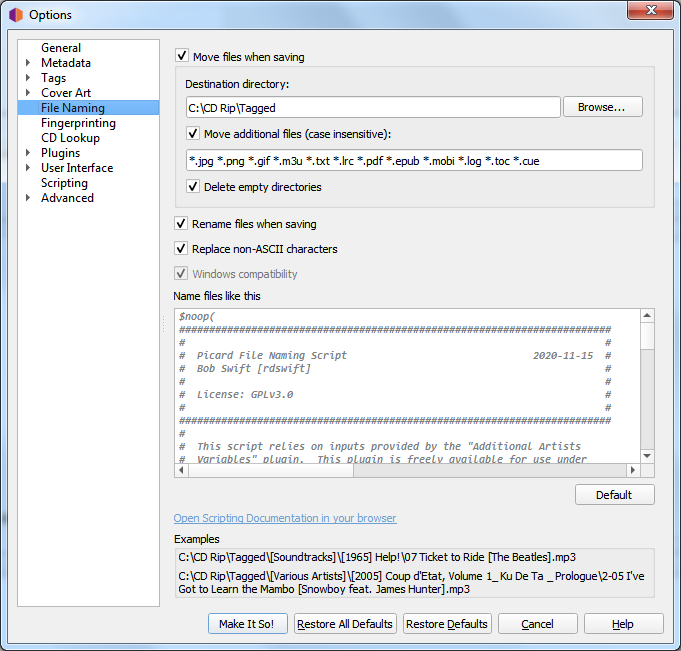
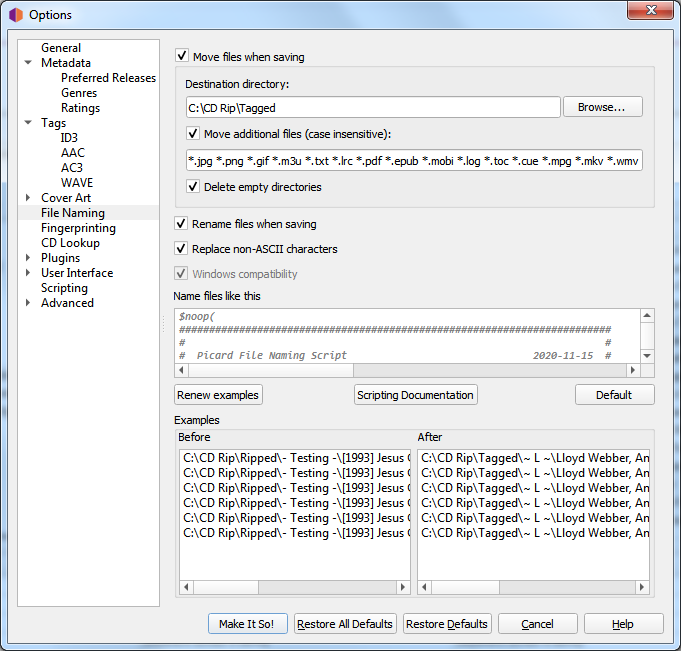
Update file renaming options page to show new examples section

diff --git a/config/options_filerenaming.rst b/config/options_filerenaming.rst
@@ -82,6 +82,10 @@ These options determine how Picard handles files when they are saved with update
    and there is a thread specific to `file naming and script snippets
    <https://community.metabrainz.org/t/repository-for-neat-file-name-string-patterns-and-tagger-script-snippets/2786/>`_.
 
+   Below the file naming script edit box is a section showing examples of the output of the script in two columns: input
+   and output.  You can preview the changes that will be made to your actual files by selecting them in the clustering pane
+   prior to opening the Options screen.
+
    .. note::
 
       Any new tags set or tags modified by the file naming script will not be written to the output files' metadata.
